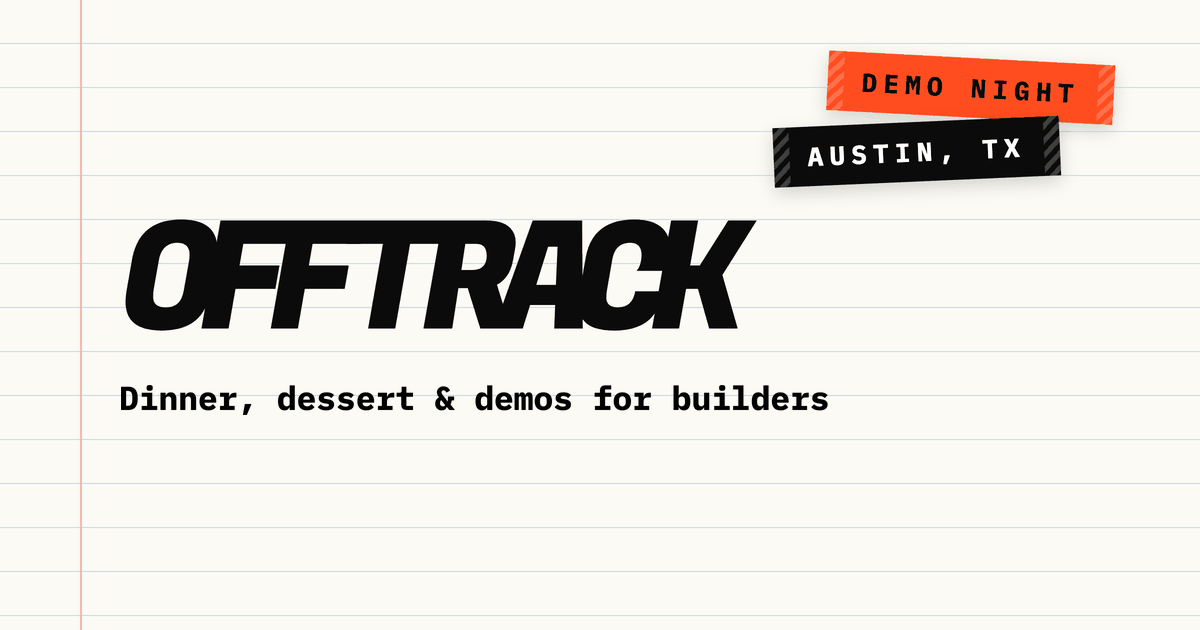
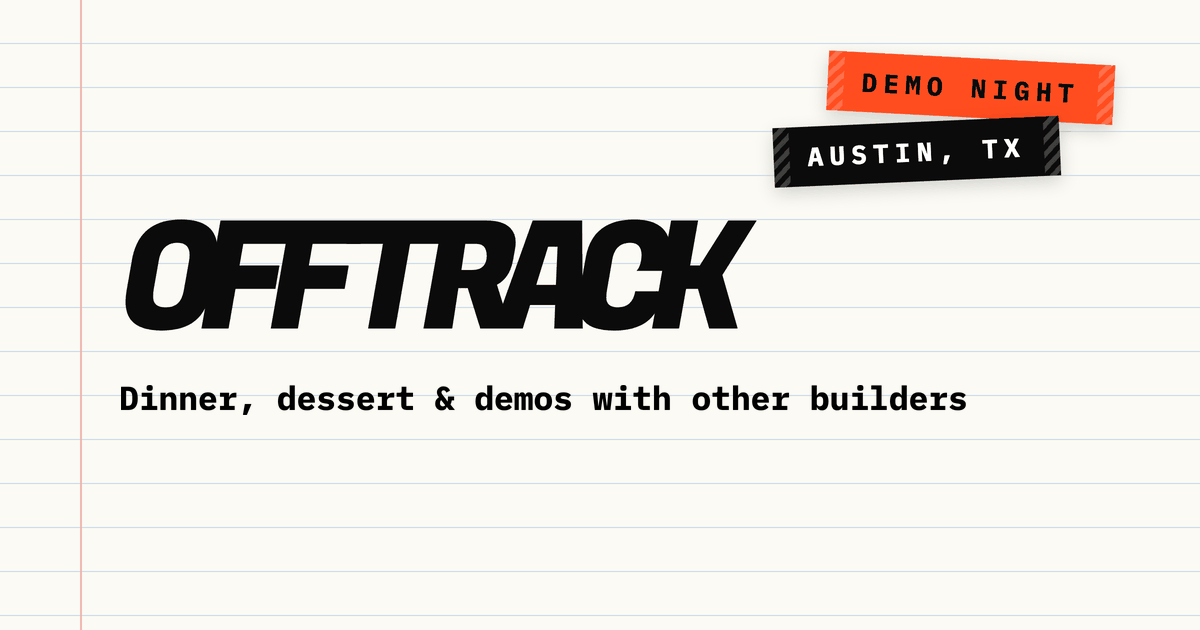
OFFTRACK: demos "with other builders", plus alt and JSON-LD alignment
"For builders" described an audience being catered to; "with other
builders" assumes the reader is one and sells the room, which is the
same argument the rest of the page makes. Heading and OG image both.

The longer heading wraps on desktop, so card headings now balance their
line split rather than orphaning the last word.

OG image rebuilt from the pristine original rather than the already
edited file so the repaint and palette don't compound; diff against it
is confined to the tagline band. Image alt now describes what the image
actually renders, and the structured-data description carries the dinner
framing.

Changed region(s): [[0.4933, 0.6032, 0.8017, 0.6635]]

diff --git a/offtrack.html b/offtrack.html
@@ -18,7 +18,7 @@
   <meta property="og:image" content="https://www.trackratsprint.club/og-offtrack.png" />
   <meta property="og:image:width" content="1200" />
   <meta property="og:image:height" content="630" />
-  <meta property="og:image:alt" content="OFFTRACK, a demo night in Austin, TX, presented by TRACKRAT" />
+  <meta property="og:image:alt" content="OFFTRACK on notebook paper, labelled demo night, Austin, TX: dinner, dessert and demos with other builders" />
   <meta property="og:locale" content="en_US" />
 
   <!-- Twitter Card -->
@@ -308,6 +308,8 @@
       font-family: 'IBM Plex Mono', monospace; font-weight: 700;
       letter-spacing: -0.02em; font-size: clamp(22px, 3.4vw, 32px);
       line-height: 1.08; margin-bottom: 14px; color: var(--ink);
+      /* Split a wrapped heading evenly instead of orphaning its last word. */
+      text-wrap: balance;
     }
     .card p { font-size: 16px; line-height: 1.6; margin-bottom: 14px; }
     .card p:last-child { margin-bottom: 0; }
@@ -522,7 +524,7 @@
       {
         "@type": "Organization",
         "name": "OFFTRACK",
-        "description": "A demo night in Austin, Texas, presented by TRACKRAT, where builders, founders, and creatives show off personal tech projects.",
+        "description": "A demo night in Austin, Texas, presented by TRACKRAT. Dinner, dessert, and demos: builders show what they've made, 5 to 10 minutes each, then discussion.",
         "url": "https://www.trackratsprint.club/offtrack",
         "parentOrganization": { "@type": "SportsClub", "@id": "https://www.trackratsprint.club/#club", "name": "TRACKRAT Sprint Club", "url": "https://www.trackratsprint.club/" },
         "areaServed": {
@@ -620,7 +622,7 @@
       <!-- THE DIFF -->
       <section class="card">
         <span class="card-label label-orange">The diff</span>
-        <h2>Dinner, dessert &amp; demos for builders</h2>
+        <h2>Dinner, dessert &amp; demos with other builders</h2>
         <p>Unlike your typical networking events, OFFTRACK is a small, once-every-couple-months event put on by TRACKRAT Sprint Club. It's for people doing creative things with technology to show off the cool stuff they've built.</p>
         <p>The first 45 minutes are dinner and a chance to meet other high-caliber builders in Austin. The remaining 75 minutes are the demos, 5 to 10 minutes each, plus discussion.</p>
       </section>
